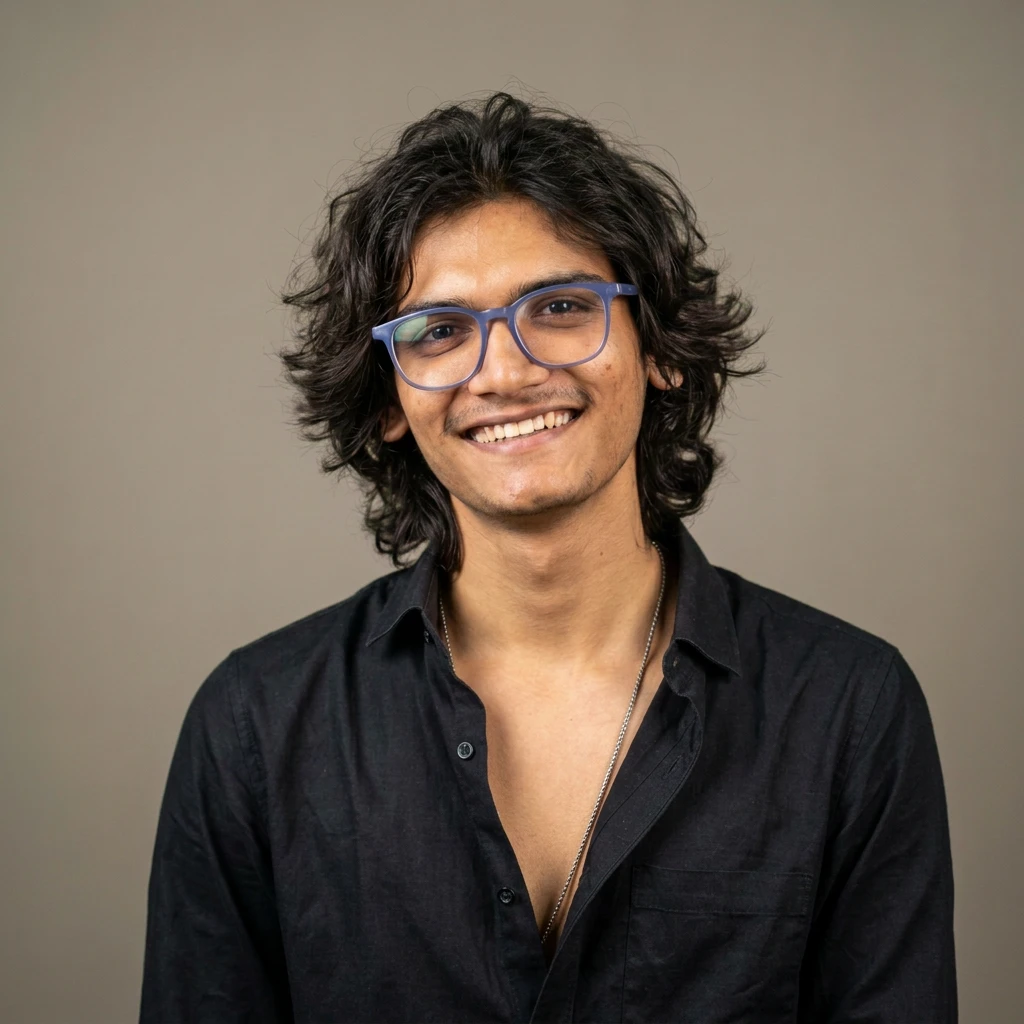
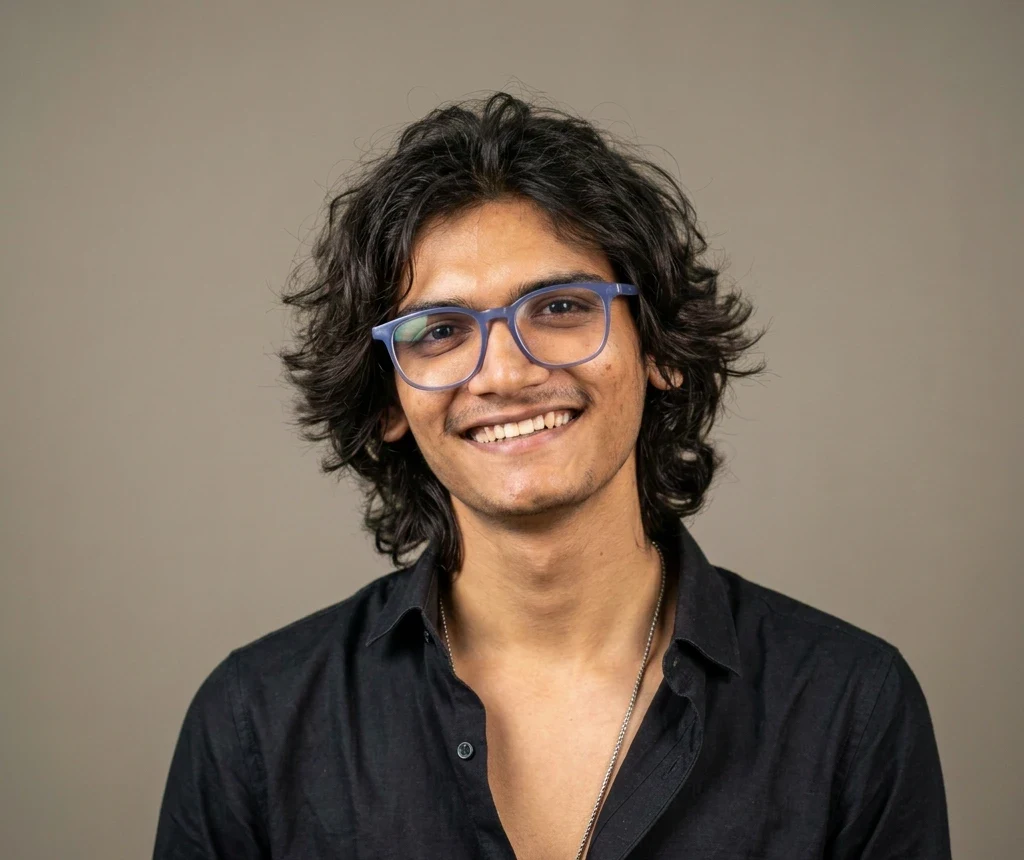
Crop headshot to collar height

Changed region(s): [[0.125, 0.0907, 0.9375, 1.0], [0.3125, 0.9372, 0.4062, 1.0], [0.6875, 0.9977, 0.7188, 1.0]]

diff --git a/css/style.css b/css/style.css
@@ -114,8 +114,8 @@ h2{font-size:clamp(34px,5vw,58px)}
   border-radius:18px;overflow:hidden;background:var(--paper-2);
   box-shadow:14px 14px 0 var(--accent);
 }
-.photo-frame img{width:100%;aspect-ratio:4/4.6;object-fit:cover;
-  object-position:50% 18%;filter:saturate(.94) contrast(1.03)}
+.photo-frame img{width:100%;aspect-ratio:4/4.3;object-fit:cover;
+  object-position:50% 22%;filter:saturate(.94) contrast(1.03)}
 .photo-cap{font-family:var(--mono);font-size:11.5px;letter-spacing:.08em;
   color:var(--ink-soft);margin-top:16px;text-transform:uppercase}
 
